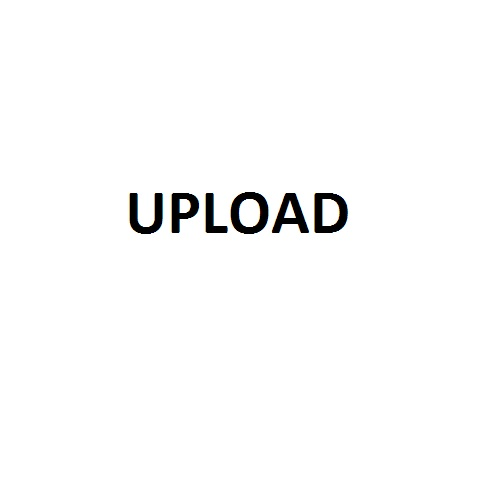
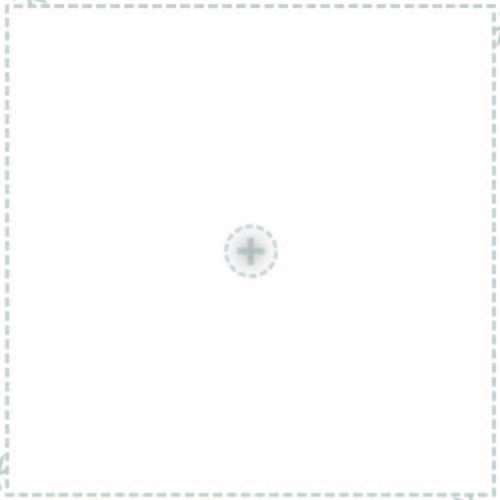
change pic

Changed region(s): [[0.0, 0.0, 1.0, 1.0], [0.24, 0.36, 0.69, 0.57]]

diff --git a/public/css/style.css b/public/css/style.css
@@ -5,7 +5,7 @@
 }
 .header{
   background: #FFC0CB;
-  padding: 20px 0;
+  padding: 10px 0;
   margin-bottom: 20px;
   text-align: center;
 }
@@ -46,6 +46,8 @@ p{
 }
 #uploadBox{
   background-image: url("/pic/upload.jpg");
+  background-repeat:no-repeat;
+  background-position:center center;
 }
 #uploadBox:hover{
   background-image: url("/pic/uploadhover.jpg");
